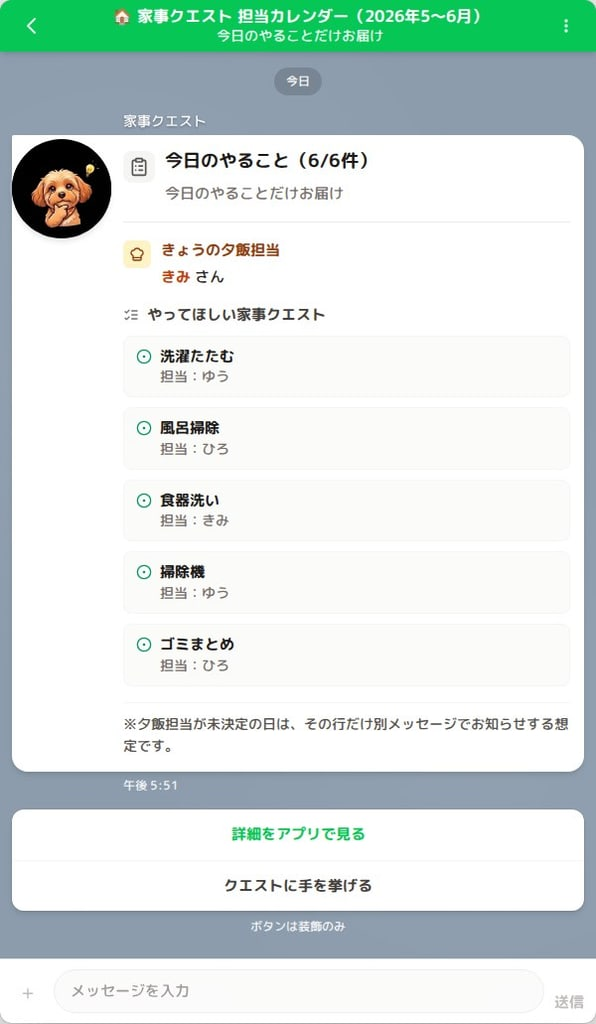
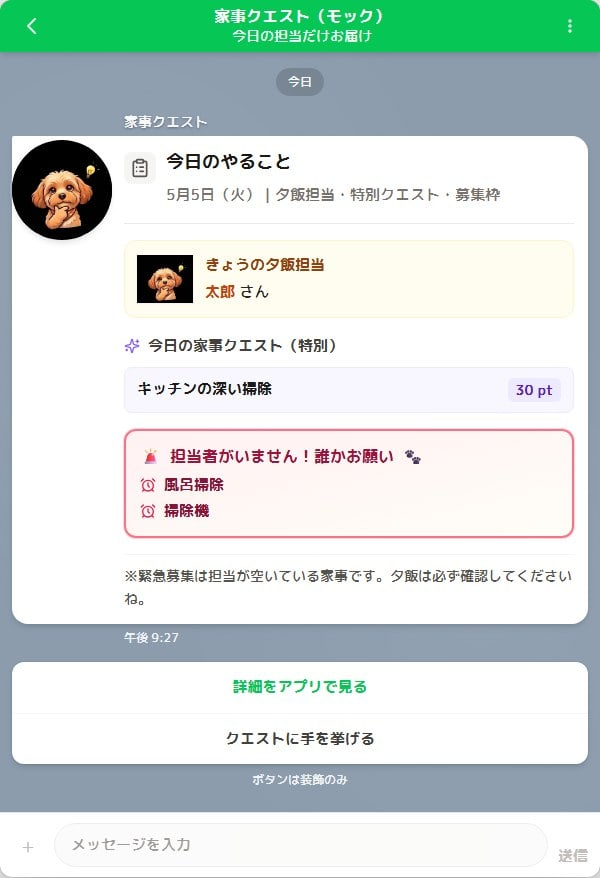
build.mjsとHTMLテンプレートを更新

Changed region(s): [[0.0, 0.0, 1.0, 0.9841], [0.755, 0.2153, 0.8456, 0.246], [0.9966, 0.9841, 1.0, 1.0]]

diff --git a/output/kaji-quest-line-today.html b/output/kaji-quest-line-today.html
@@ -93,7 +93,7 @@
 
             <div class="mt-4 border-t border-stone-100 pt-2.5">
               <p class="max-w-prose text-sm leading-relaxed text-stone-600">
-                ※夕飯担当が未決定の日は、その行だけ別メッセージでお知らせする想定です。
+                {{FOOTER_NOTE_HTML}}
               </p>
             </div>
           </div>
